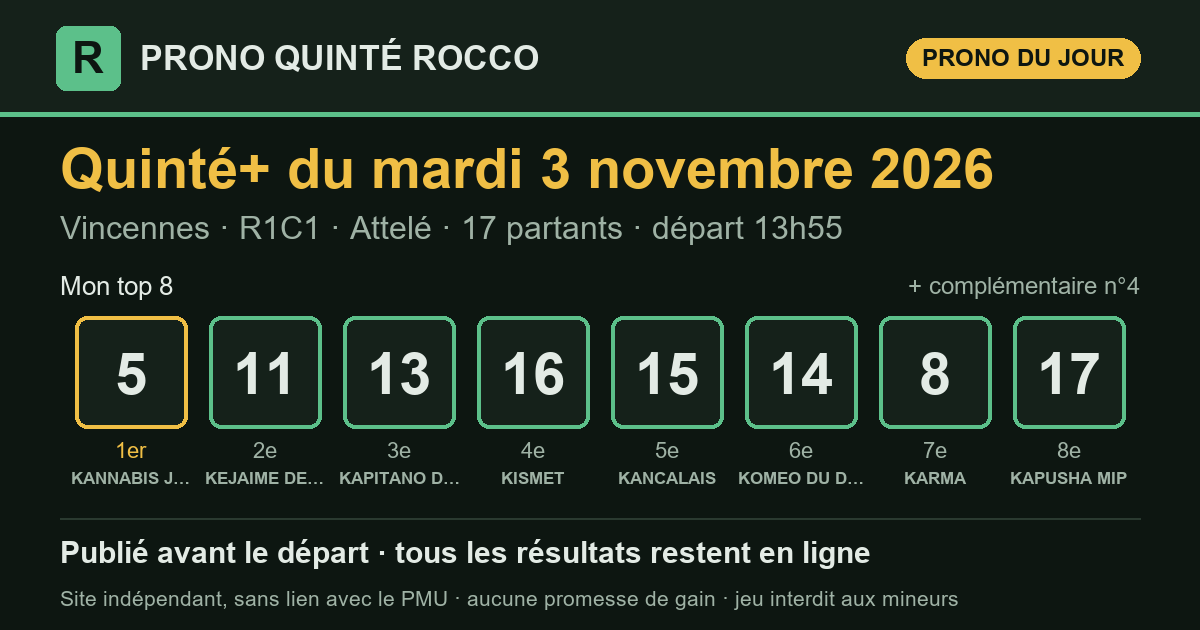
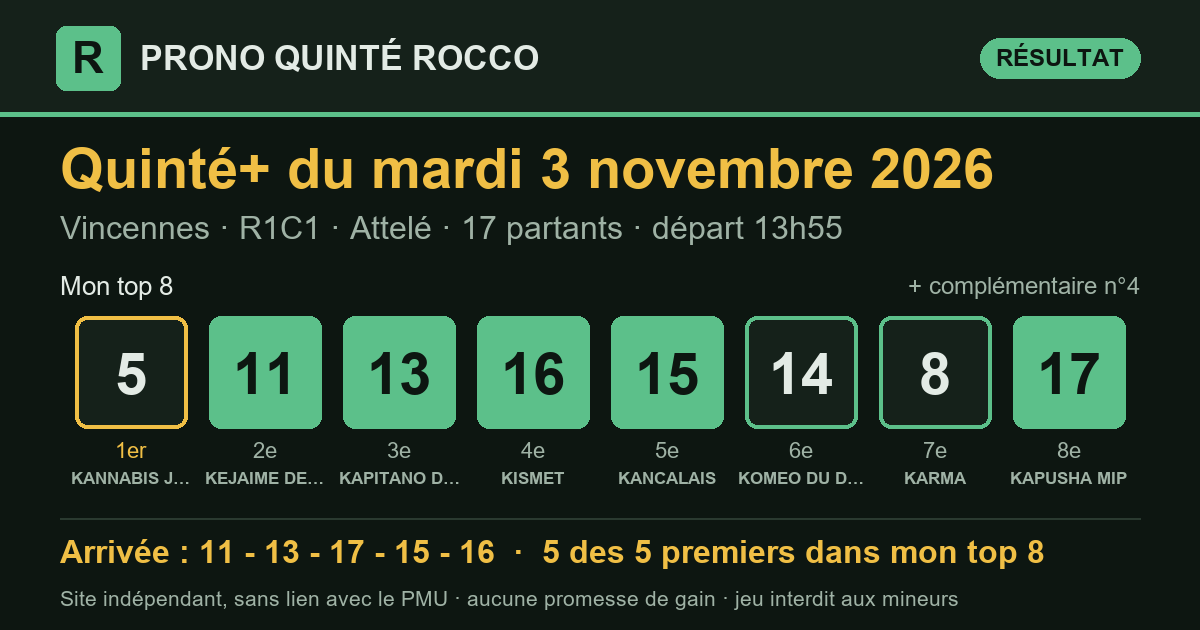
Prono Quinté+ 2026-11-03 Vincennes R1C1 — publié le 03/11/2026 14:11 (heure de Paris)

diff --git a/partants.html b/partants.html
@@ -3,7 +3,7 @@
 <head>
 <meta charset="utf-8">
 <meta name="viewport" content="width=device-width, initial-scale=1, viewport-fit=cover">
-<title>Partants du Quinté+ du mardi 3 novembre 2026 — Prono Quinté Rocco</title>
+<title>Partants du Quinté+ du mercredi 4 novembre 2026 — Prono Quinté Rocco</title>
 <meta name="description" content="Les partants du prochain Quinté+ (programme officiel du PMU), avec le rang de chaque cheval dans mon prono et les liens vers les pronostics de la presse.">
 <link rel="canonical" href="https://prono-quinte-rocco.fr/partants.html">
 <link rel="stylesheet" href="style.css?v=88a1c822">
@@ -13,7 +13,7 @@
 <meta property="og:site_name" content="Prono Quinté Rocco">
 <meta property="og:locale" content="fr_FR">
 <meta property="og:type" content="website">
-<meta property="og:title" content="Partants du Quinté+ du mardi 3 novembre 2026 — Prono Quinté Rocco">
+<meta property="og:title" content="Partants du Quinté+ du mercredi 4 novembre 2026 — Prono Quinté Rocco">
 <meta property="og:description" content="Les partants du prochain Quinté+ (programme officiel du PMU), avec le rang de chaque cheval dans mon prono et les liens vers les pronostics de la presse.">
 <meta property="og:url" content="https://prono-quinte-rocco.fr/partants.html">
 <meta name="twitter:card" content="summary">
@@ -29,105 +29,85 @@
   <p class="surtitre">Programme officiel du PMU</p>
   <h1>Les partants du prochain Quinté+</h1>
   <div class="fiche-course">
-    <p class="fiche-date">Mardi 3 novembre 2026</p>
-    <div class="fiche-rc"><span class="pastille" title="Réunion 1">R1</span><span class="pastille" title="Course 1">C1</span><span class="fiche-nom">Prix de Vienne</span></div>
-    <p class="meta">Vincennes · Trot_attele · 2 850 m · 17 partants</p>
+    <p class="fiche-date">Mercredi 4 novembre 2026</p>
+    <div class="fiche-rc"><span class="pastille" title="Réunion 1">R1</span><span class="pastille" title="Course 2">C2</span><span class="fiche-nom">Grand National du Trot</span></div>
+    <p class="meta">Nantes · Trot_attele · 3 000 m · 12 partants</p>
     <p class="fiche-depart">Départ <b>13:55</b> <span>heure de Paris</span></p>
   </div>
   <p class="surtitre">Les pronostics ailleurs sur le web</p>
-  <div class="liens"><a class="lien-ext" href="https://www.turfoo.fr/programmes-courses/261103/reunion1-vincennes/course1-prix-de-vienne/pronostics-presse/" rel="noopener" target="_blank"><b>Les pronostics de la presse →</b><span>sur Turfoo (site extérieur)</span></a><a class="lien-ext" href="https://www.geny.com/programme/2026-11-03" rel="noopener" target="_blank"><b>Partants et pronostics →</b><span>programme du jour sur Geny (site extérieur)</span></a></div>
+  <div class="liens"><a class="lien-ext" href="https://www.turfoo.fr/programmes-courses/261104/reunion1-nantes/course2-grand-national-du-trot/pronostics-presse/" rel="noopener" target="_blank"><b>Les pronostics de la presse →</b><span>sur Turfoo (site extérieur)</span></a><a class="lien-ext" href="https://www.geny.com/programme/2026-11-04" rel="noopener" target="_blank"><b>Partants et pronostics →</b><span>programme du jour sur Geny (site extérieur)</span></a></div>
   <div class="liste-boite"><table class="liste-partants">
     <thead><tr><th>N°</th><th>Cheval</th><th class="cote"><span class="long">Cote du matin</span><span class="court">Cote</span></th>
     <th class="ia"><span class="long">Mon prono</span><span class="court">Prono</span></th></tr></thead>
     <tbody><tr>
   <td><span class="tapis petit">1</span></td>
-  <td><span class="cheval">KOCKTAIL WOOD</span><span class="sous">N. BAZIRE · B. BOURGOIN</span></td>
-  <td class="cote num">61,0</td>
+  <td><span class="cheval">JERENAL D&#x27;HAMELINE</span><span class="sous">A. WIELS · J.P. MARMION</span></td>
+  <td class="cote num">—</td>
   <td class="ia">—</td>
 </tr><tr>
   <td><span class="tapis petit">2</span></td>
-  <td><span class="cheval">KYNTE FLUSH</span><span class="sous">A. ABRIVARD · L.CL. ABRIVARD</span></td>
-  <td class="cote num">24,0</td>
+  <td><span class="cheval">IDOLE DE MEAT</span><span class="sous">F. GUINHUT · F. GUINHUT</span></td>
+  <td class="cote num">—</td>
   <td class="ia">—</td>
 </tr><tr>
   <td><span class="tapis petit">3</span></td>
-  <td><span class="cheval">KING GEORGES</span><span class="sous">D. BONNE · D. BONNE</span></td>
-  <td class="cote num">61,0</td>
+  <td><span class="cheval">HAPPY FACE</span><span class="sous">M. ABRIVARD · CH.A. MARY</span></td>
+  <td class="cote num">—</td>
   <td class="ia">—</td>
 </tr><tr>
   <td><span class="tapis petit">4</span></td>
-  <td><span class="cheval">KANSAS QUESNOT</span><span class="sous">P.Y. VERVA · P.Y. VERVA</span></td>
-  <td class="cote num">44,0</td>
-  <td class="ia"><span class="etat place">compl.</span></td>
+  <td><span class="cheval">HAPPY DANOVER</span><span class="sous">J. TRAVERS · St. PROVOOST</span></td>
+  <td class="cote num">—</td>
+  <td class="ia">—</td>
 </tr><tr>
   <td><span class="tapis petit">5</span></td>
-  <td><span class="cheval">KANNABIS JELOCA</span><span class="sous">M. GOETZ · V. RENAULT</span></td>
-  <td class="cote num">10,0</td>
-  <td class="ia"><span class="etat place">1<sup>er</sup></span></td>
+  <td><span class="cheval">JANE AIMEE</span><span class="sous">J.PH. MONCLIN · Sté. Ent. Christophe CLIN</span></td>
+  <td class="cote num">—</td>
+  <td class="ia">—</td>
 </tr><tr>
   <td><span class="tapis petit">6</span></td>
-  <td><span class="cheval">KHARNAS</span><span class="sous">A. ANDRE · Sté. Ent. Grégory THOREL</span></td>
-  <td class="cote num">62,0</td>
+  <td><span class="cheval">JENTIL DIESCHOOT</span><span class="sous">A. COLLETTE · K. LEBLANC</span></td>
+  <td class="cote num">—</td>
   <td class="ia">—</td>
 </tr><tr>
   <td><span class="tapis petit">7</span></td>
-  <td><span class="cheval">KOSY D&#x27;ERONVILLE</span><span class="sous">D. THOMAIN · ST. MEUNIER</span></td>
-  <td class="cote num">24,0</td>
+  <td><span class="cheval">KARNAC WOOD</span><span class="sous">H. MONTHULE · S. GUARATO</span></td>
+  <td class="cote num">—</td>
   <td class="ia">—</td>
 </tr><tr>
   <td><span class="tapis petit">8</span></td>
-  <td><span class="cheval">KARMA</span><span class="sous">R. LAMY · P. LEVESQUE</span></td>
-  <td class="cote num">9,0</td>
-  <td class="ia"><span class="etat place">7<sup>e</sup></span></td>
+  <td><span class="cheval">KELLE BEAUTE</span><span class="sous">A. ABRIVARD · L.CL. ABRIVARD</span></td>
+  <td class="cote num">—</td>
+  <td class="ia">—</td>
 </tr><tr>
   <td><span class="tapis petit">9</span></td>
-  <td><span class="cheval">KISS ME SIMON</span><span class="sous">F. OUVRIE · P. DESPREZ</span></td>
-  <td class="cote num">61,0</td>
+  <td><span class="cheval">HARMONY LA NUIT</span><span class="sous">E. RAFFIN · S. BOURLIER</span></td>
+  <td class="cote num">—</td>
   <td class="ia">—</td>
 </tr><tr>
   <td><span class="tapis petit">10</span></td>
-  <td><span class="cheval">KAZY MERITE</span><span class="sous">A. BARRIER · A. BUISSON</span></td>
-  <td class="cote num">33,0</td>
+  <td><span class="cheval">JE REVE DU BOIS</span><span class="sous">A. BARRIER · CH.M. BRUNEAU</span></td>
+  <td class="cote num">—</td>
   <td class="ia">—</td>
 </tr><tr>
   <td><span class="tapis petit">11</span></td>
-  <td><span class="cheval">KEJAIME DE HOUELLE</span><span class="sous">A. COLLETTE · K. LEBLANC</span></td>
-  <td class="cote num">5,6</td>
-  <td class="ia"><span class="etat place">2<sup>e</sup></span></td>
-</tr><tr>
-  <td><span class="tapis petit">12</span></td>
-  <td><span class="cheval">KAISER DES GRANGES</span><span class="sous">G. GELORMINI · Ch. NICOLE</span></td>
-  <td class="cote num">23,0</td>
+  <td><span class="cheval">HORATIUS D&#x27;ELA</span><span class="sous">B. ROCHARD · M. SASSIER</span></td>
+  <td class="cote num">—</td>
   <td class="ia">—</td>
 </tr><tr>
+  <td><span class="tapis petit">12</span></td>
+  <td><span class="cheval">IBISCUS MAN</span><span class="sous">M. MOTTIER · R.CH. LARUE</span></td>
+  <td class="cote num">—</td>
+  <td class="ia">—</td>
+</tr><tr class="np">
   <td><span class="tapis petit">13</span></td>
-  <td><span class="cheval">KAPITANO DE LOU</span><span class="sous">P.PH. PLOQUIN · A. DUPERCHE</span></td>
-  <td class="cote num">8,4</td>
-  <td class="ia"><span class="etat place">3<sup>e</sup></span></td>
-</tr><tr>
-  <td><span class="tapis petit">14</span></td>
-  <td><span class="cheval">KOMEO DU DOME</span><span class="sous">PH. DAUGEARD · PH. DAUGEARD</span></td>
-  <td class="cote num">9,0</td>
-  <td class="ia"><span class="etat place">6<sup>e</sup></span></td>
-</tr><tr>
-  <td><span class="tapis petit">15</span></td>
-  <td><span class="cheval">KANCALAIS</span><span class="sous">B. ROCHARD · CH.A. MARY</span></td>
-  <td class="cote num">8,8</td>
-  <td class="ia"><span class="etat place">5<sup>e</sup></span></td>
-</tr><tr>
-  <td><span class="tapis petit">16</span></td>
-  <td><span class="cheval">KISMET</span><span class="sous">M. ABRIVARD · M. ABRIVARD</span></td>
-  <td class="cote num">8,2</td>
-  <td class="ia"><span class="etat place">4<sup>e</sup></span></td>
-</tr><tr>
-  <td><span class="tapis petit">17</span></td>
-  <td><span class="cheval">KAPUSHA MIP</span><span class="sous">E. RAFFIN · S. GUARATO</span></td>
-  <td class="cote num">13,0</td>
-  <td class="ia"><span class="etat place">8<sup>e</sup></span></td>
+  <td><span class="cheval">JINGLE DU PONT</span><span class="sous">R. CONGARD · N. BAZIRE</span></td>
+  <td class="cote num">NP</td>
+  <td class="ia">—</td>
 </tr></tbody>
   </table></div>
-  <p class="meta">La colonne « Mon prono » donne le rang de chaque cheval dans mon top 8, tel qu&#x27;il est publié sur ce site. Sous chaque cheval : driver · entraîneur. Partants et cotes : programme
-  officiel du PMU, lu le 03/11 à 09:16 (heure de Paris). NP = non-partant.</p>
+  <p class="meta">Mon prono de cette course sera publié le matin de la course, avant le départ. Sous chaque cheval : driver · entraîneur. Partants et cotes : programme
+  officiel du PMU, lu le 03/11 à 14:11 (heure de Paris). NP = non-partant.</p>
 </section>
 </main>
 <footer class="pied">

diff --git a/index.html b/index.html
@@ -16,7 +16,7 @@
 <meta property="og:title" content="Pronostic Quinté+ du mardi 3 novembre 2026 — Prono Quinté Rocco">
 <meta property="og:description" content="Pronostic Quinté+ du jour : mon top 8, publié avant le départ, puis tous les résultats et le rendement réel.">
 <meta property="og:url" content="https://prono-quinte-rocco.fr/">
-<meta property="og:image" content="https://prono-quinte-rocco.fr/partage/2026-11-03.png?v=45e7c30c">
+<meta property="og:image" content="https://prono-quinte-rocco.fr/partage/2026-11-03.png?v=94d93e24">
 <meta property="og:image:type" content="image/png">
 <meta property="og:image:width" content="1200">
 <meta property="og:image:height" content="630">
@@ -31,7 +31,7 @@
 </header>
 <main>
 <section class="une" aria-labelledby="t-jour">
-  <p class="surtitre">Quinté+ du jour</p>
+  <p class="surtitre">Dernier Quinté+</p>
   <h1 id="t-jour">Le prono du Quinté+, résultats compris</h1>
   <p class="chapo">Chaque matin, j'étudie les partants du Quinté+ avec le logiciel que
   j'ai conçu, selon ma propre méthode, qu'une intelligence artificielle m'aide à
@@ -42,10 +42,13 @@
   <p class="meta">Vincennes · <strong>R1C1</strong> · Attelé · 17 partants · lisibilité <span class="note" aria-label="note 3 sur 5"><i class="on"></i><i class="on"></i><i class="on"></i><i class=""></i><i class=""></i></span> 3/5</p>
   <div class="zone-prono">
     <h3 class="zone-titre">Mon top 8</h3>
-    <ol class="partants" aria-label="Mon top 8"><li><span class="rang">1<sup>er</sup></span><span class="tapis ">5</span><span class="nom">KANNABIS JELOCA</span></li><li><span class="rang">2<sup>e</sup></span><span class="tapis ">11</span><span class="nom">KEJAIME DE HOUELLE</span></li><li><span class="rang">3<sup>e</sup></span><span class="tapis ">13</span><span class="nom">KAPITANO DE LOU</span></li><li><span class="rang">4<sup>e</sup></span><span class="tapis ">16</span><span class="nom">KISMET</span></li><li><span class="rang">5<sup>e</sup></span><span class="tapis ">15</span><span class="nom">KANCALAIS</span></li><li><span class="rang">6<sup>e</sup></span><span class="tapis ">14</span><span class="nom">KOMEO DU DOME</span></li><li><span class="rang">7<sup>e</sup></span><span class="tapis ">8</span><span class="nom">KARMA</span></li><li><span class="rang">8<sup>e</sup></span><span class="tapis ">17</span><span class="nom">KAPUSHA MIP</span></li><li><span class="rang">compl.</span><span class="tapis creux">4</span><span class="nom">KANSAS QUESNOT</span></li></ol>
+    <ol class="partants" aria-label="Mon top 8"><li><span class="rang">1<sup>er</sup></span><span class="tapis ">5</span><span class="nom">KANNABIS JELOCA</span></li><li><span class="rang">2<sup>e</sup></span><span class="tapis plein">11</span><span class="nom">KEJAIME DE HOUELLE</span></li><li><span class="rang">3<sup>e</sup></span><span class="tapis plein">13</span><span class="nom">KAPITANO DE LOU</span></li><li><span class="rang">4<sup>e</sup></span><span class="tapis plein">16</span><span class="nom">KISMET</span></li><li><span class="rang">5<sup>e</sup></span><span class="tapis plein">15</span><span class="nom">KANCALAIS</span></li><li><span class="rang">6<sup>e</sup></span><span class="tapis ">14</span><span class="nom">KOMEO DU DOME</span></li><li><span class="rang">7<sup>e</sup></span><span class="tapis ">8</span><span class="nom">KARMA</span></li><li><span class="rang">8<sup>e</sup></span><span class="tapis plein">17</span><span class="nom">KAPUSHA MIP</span></li><li><span class="rang">compl.</span><span class="tapis creux">4</span><span class="nom">KANSAS QUESNOT</span></li></ol>
     <div class="pied-carte"><span>Analysé le 03/11 à 09:05 · en ligne le 03/11 à 09:16 · départ à 13:55 (heure de Paris)</span><span><a href="quinte/2026-11-03.html">Détail de la course</a></span></div>
   </div>
-  <div class="zone-arrivee attente"><p>L'arrivée officielle s'affichera ici après la course.</p></div>
+  <div class="zone-arrivee">
+    <div class="zone-tete"><h3 class="zone-titre">Arrivée officielle</h3><span class="etat place">5 des 5 premiers dans mon top 8</span><span class="etat non">mon 1er (n°5) : non placé</span></div>
+    <ol class="partants" aria-label="Arrivée officielle"><li><span class="rang">1<sup>er</sup></span><span class="tapis plein">11</span><span class="nom">KEJAIME DE HOUELLE</span></li><li><span class="rang">2<sup>e</sup></span><span class="tapis plein">13</span><span class="nom">KAPITANO DE LOU</span></li><li><span class="rang">3<sup>e</sup></span><span class="tapis plein">17</span><span class="nom">KAPUSHA MIP</span></li><li><span class="rang">4<sup>e</sup></span><span class="tapis plein">15</span><span class="nom">KANCALAIS</span></li><li><span class="rang">5<sup>e</sup></span><span class="tapis plein">16</span><span class="nom">KISMET</span></li></ol>
+  </div>
 </article>
 </section>
 <section class="suivre" aria-label="Suivre et soutenir">
@@ -75,7 +78,7 @@
 </section>
 <section class="bilan" aria-labelledby="t-bilan">
   <h2 id="t-bilan">Mon bilan depuis le 8 septembre 2026</h2>
-  <div class="tableau chiffres"><div class="case"><span class="gros ">72 %</span><span class="lib">des arrivants trouvés dans mon top 8</span><span class="ref">un top 8 tiré au hasard : 51 %</span></div><div class="case"><span class="gros ">87 %</span><span class="lib">des gagnants présents dans mon top 8</span><span class="ref"></span></div><div class="case"><span class="gros ">47 %</span><span class="lib">mon 1er placé</span><span class="ref">sur 55 Quintés</span></div><div class="case"><span class="gros perte">0,88 €</span><span class="lib">rendus pour 1 € joué placé sur mon 1er</span><span class="ref">rapports officiels PMU</span></div><div class="case"><span class="gros perte">0,44 €</span><span class="lib">rendus pour 1 € joué en Quinté+ combiné sur mon top 8</span><span class="ref">56 combinaisons, rapports PMU.fr, sur 55 Quintés</span></div></div>
+  <div class="tableau chiffres"><div class="case"><span class="gros ">73 %</span><span class="lib">des arrivants trouvés dans mon top 8</span><span class="ref">un top 8 tiré au hasard : 51 %</span></div><div class="case"><span class="gros ">88 %</span><span class="lib">des gagnants présents dans mon top 8</span><span class="ref"></span></div><div class="case"><span class="gros ">47 %</span><span class="lib">mon 1er placé</span><span class="ref">sur 55 Quintés</span></div><div class="case"><span class="gros perte">0,88 €</span><span class="lib">rendus pour 1 € joué placé sur mon 1er</span><span class="ref">rapports officiels PMU</span></div><div class="case"><span class="gros perte">0,46 €</span><span class="lib">rendus pour 1 € joué en Quinté+ combiné sur mon top 8</span><span class="ref">56 combinaisons, rapports PMU.fr, sur 56 Quintés</span></div></div>
   <p class="avertissement">Moins de 1 € rendu pour 1 € joué : suivre mon prono à la lettre fait <strong>perdre de l'argent</strong> sur cette période. Il sert à analyser une course, pas à promettre un gain.</p>
 </section>
 </main>

diff --git a/quinte/2026-11-03.html b/quinte/2026-11-03.html
@@ -16,7 +16,7 @@
 <meta property="og:title" content="Pronostic Quinté+ du mardi 3 novembre 2026 à Vincennes — Prono Quinté Rocco">
 <meta property="og:description" content="Prono Quinté+ du mardi 3 novembre 2026 (Vincennes) : mon top 8, l&#x27;arrivée officielle et les rapports PMU.fr.">
 <meta property="og:url" content="https://prono-quinte-rocco.fr/quinte/2026-11-03.html">
-<meta property="og:image" content="https://prono-quinte-rocco.fr/partage/2026-11-03.png?v=45e7c30c">
+<meta property="og:image" content="https://prono-quinte-rocco.fr/partage/2026-11-03.png?v=94d93e24">
 <meta property="og:image:type" content="image/png">
 <meta property="og:image:width" content="1200">
 <meta property="og:image:height" content="630">
@@ -35,15 +35,25 @@
   <h1>Pronostic Quinté+ du mardi 3 novembre 2026</h1>
   <p class="chapo">Vincennes · R1C1 · Attelé · 17 partants</p>
   <article class="carte-course">
-  <div class="tete"><h2>Mon prono</h2></div>
+  <div class="tete"><h2>Mon prono et l&#x27;arrivée officielle</h2></div>
   <p class="meta">Vincennes · <strong>R1C1</strong> · Attelé · 17 partants · lisibilité <span class="note" aria-label="note 3 sur 5"><i class="on"></i><i class="on"></i><i class="on"></i><i class=""></i><i class=""></i></span> 3/5</p>
   <div class="zone-prono">
     <h3 class="zone-titre">Mon top 8</h3>
-    <ol class="partants" aria-label="Mon top 8"><li><span class="rang">1<sup>er</sup></span><span class="tapis ">5</span><span class="nom">KANNABIS JELOCA</span></li><li><span class="rang">2<sup>e</sup></span><span class="tapis ">11</span><span class="nom">KEJAIME DE HOUELLE</span></li><li><span class="rang">3<sup>e</sup></span><span class="tapis ">13</span><span class="nom">KAPITANO DE LOU</span></li><li><span class="rang">4<sup>e</sup></span><span class="tapis ">16</span><span class="nom">KISMET</span></li><li><span class="rang">5<sup>e</sup></span><span class="tapis ">15</span><span class="nom">KANCALAIS</span></li><li><span class="rang">6<sup>e</sup></span><span class="tapis ">14</span><span class="nom">KOMEO DU DOME</span></li><li><span class="rang">7<sup>e</sup></span><span class="tapis ">8</span><span class="nom">KARMA</span></li><li><span class="rang">8<sup>e</sup></span><span class="tapis ">17</span><span class="nom">KAPUSHA MIP</span></li><li><span class="rang">compl.</span><span class="tapis creux">4</span><span class="nom">KANSAS QUESNOT</span></li></ol>
+    <ol class="partants" aria-label="Mon top 8"><li><span class="rang">1<sup>er</sup></span><span class="tapis ">5</span><span class="nom">KANNABIS JELOCA</span></li><li><span class="rang">2<sup>e</sup></span><span class="tapis plein">11</span><span class="nom">KEJAIME DE HOUELLE</span></li><li><span class="rang">3<sup>e</sup></span><span class="tapis plein">13</span><span class="nom">KAPITANO DE LOU</span></li><li><span class="rang">4<sup>e</sup></span><span class="tapis plein">16</span><span class="nom">KISMET</span></li><li><span class="rang">5<sup>e</sup></span><span class="tapis plein">15</span><span class="nom">KANCALAIS</span></li><li><span class="rang">6<sup>e</sup></span><span class="tapis ">14</span><span class="nom">KOMEO DU DOME</span></li><li><span class="rang">7<sup>e</sup></span><span class="tapis ">8</span><span class="nom">KARMA</span></li><li><span class="rang">8<sup>e</sup></span><span class="tapis plein">17</span><span class="nom">KAPUSHA MIP</span></li><li><span class="rang">compl.</span><span class="tapis creux">4</span><span class="nom">KANSAS QUESNOT</span></li></ol>
     <div class="pied-carte"><span>Analysé le 03/11 à 09:05 · en ligne le 03/11 à 09:16 · départ à 13:55 (heure de Paris)</span><span></span></div>
   </div>
-  <div class="zone-arrivee attente"><p>L'arrivée officielle s'affichera ici après la course.</p></div>
+  <div class="zone-arrivee">
+    <div class="zone-tete"><h3 class="zone-titre">Arrivée officielle</h3><span class="etat place">5 des 5 premiers dans mon top 8</span><span class="etat non">mon 1er (n°5) : non placé</span></div>
+    <ol class="partants" aria-label="Arrivée officielle"><li><span class="rang">1<sup>er</sup></span><span class="tapis plein">11</span><span class="nom">KEJAIME DE HOUELLE</span></li><li><span class="rang">2<sup>e</sup></span><span class="tapis plein">13</span><span class="nom">KAPITANO DE LOU</span></li><li><span class="rang">3<sup>e</sup></span><span class="tapis plein">17</span><span class="nom">KAPUSHA MIP</span></li><li><span class="rang">4<sup>e</sup></span><span class="tapis plein">15</span><span class="nom">KANCALAIS</span></li><li><span class="rang">5<sup>e</sup></span><span class="tapis plein">16</span><span class="nom">KISMET</span></li></ol>
+  </div>
 </article>
+<section class="carte-course rapports" aria-labelledby="t-rap">
+  <div class="tete"><h2 id="t-rap">Les rapports</h2></div>
+  <div class="deux">
+    <div><h3>Ce qu'aurait rendu mon prono</h3><dl class="kv"><dt>1 € placé sur mon 1er (n°5)</dt><dd>rapport manquant</dd><dt>1 € gagnant sur mon 1er</dt><dd>rapport manquant</dd><dt>Quinté+ combiné sur mon top 8 (mise 112 €)</dt><dd>147,20 €</dd><dt>dont</dt><dd>Désordre × 1, Bonus 4sur5 × 15, Bonus 3 × 3</dd></dl></div>
+    <div><h3>Rapports officiels</h3><dl class="kv"><dt>e-Quinté+ Ordre (2 €)</dt><dd>5 223,20 €</dd><dt>e-Quinté+ Désordre (2 €)</dt><dd>59,60 €</dd><dt>e-Bonus 4sur5 (2 €)</dt><dd>5,00 €</dd><dt>e-Bonus 3 (2 €)</dt><dd>4,20 €</dd></dl></div>
+  </div>
+</section>
 </section>
 </main>
 <footer class="pied">

diff --git a/resultats.html b/resultats.html
@@ -40,11 +40,11 @@
     <th colspan="4" class="res g-res">Le résultat officiel</th></tr>
     <tr><th>Date</th><th>Course</th><th>Top 8</th><th class="res c-arr">Arrivée</th>
     <th class="res">Trouvés</th><th class="res">Mon 1er</th><th class="res mont">Quinté+ top 8<br>(mise 112 €)</th></tr></thead>
-    <tbody><tr class="attente">
+    <tbody><tr>
   <td class="c-date"><a href="quinte/2026-11-03.html">03/11</a></td>
   <td class="c-course">Vincennes<br><span class="meta">R1C1 · Attelé</span></td>
-  <td class="c-top8" data-label="Mon top 8"><div class="rangee"><span class="tapis petit">5</span><span class="tapis petit">11</span><span class="tapis petit">13</span><span class="tapis petit">16</span><span class="tapis petit">15</span><span class="tapis petit">14</span><span class="tapis petit">8</span><span class="tapis petit">17</span></div></td>
-  <td class="res c-arr" data-label="Arrivée"><span class="etat attente">en attente</span></td><td class="res num c-trouves" data-label="Trouvés">—</td><td class="res c-premier" data-label="Mon 1er"><span class="etat attente">—</span></td><td class="res mont c-mont" data-label="Quinté+ top 8 (mise 112 €)">—</td>
+  <td class="c-top8" data-label="Mon top 8"><div class="rangee"><span class="tapis petit">5</span><span class="tapis plein petit">11</span><span class="tapis plein petit">13</span><span class="tapis plein petit">16</span><span class="tapis plein petit">15</span><span class="tapis petit">14</span><span class="tapis petit">8</span><span class="tapis plein petit">17</span></div></td>
+  <td class="res c-arr" data-label="Arrivée"><div class="rangee"><span class="tapis plein petit" title="1er">11</span><span class="tapis plein petit" title="2e">13</span><span class="tapis plein petit" title="3e">17</span><span class="tapis plein petit" title="4e">15</span><span class="tapis plein petit" title="5e">16</span></div></td><td class="res num c-trouves" data-label="Trouvés">5/5</td><td class="res c-premier" data-label="Mon 1er"><span class="etat non">non placé</span></td><td class="res mont c-mont " data-label="Quinté+ top 8 (mise 112 €)">147,20 €</td>
 </tr><tr>
   <td class="c-date"><a href="quinte/2026-11-02.html">02/11</a></td>
   <td class="c-course">Fontainebleau<br><span class="meta">R1C3 · Plat</span></td>
@@ -325,7 +325,7 @@
 </section>
 <section class="bilan" aria-labelledby="t-bilan">
   <h2 id="t-bilan">Mon bilan depuis le 8 septembre 2026</h2>
-  <div class="tableau chiffres"><div class="case"><span class="gros ">72 %</span><span class="lib">des arrivants trouvés dans mon top 8</span><span class="ref">un top 8 tiré au hasard : 51 %</span></div><div class="case"><span class="gros ">87 %</span><span class="lib">des gagnants présents dans mon top 8</span><span class="ref"></span></div><div class="case"><span class="gros ">47 %</span><span class="lib">mon 1er placé</span><span class="ref">sur 55 Quintés</span></div><div class="case"><span class="gros perte">0,88 €</span><span class="lib">rendus pour 1 € joué placé sur mon 1er</span><span class="ref">rapports officiels PMU</span></div><div class="case"><span class="gros perte">0,44 €</span><span class="lib">rendus pour 1 € joué en Quinté+ combiné sur mon top 8</span><span class="ref">56 combinaisons, rapports PMU.fr, sur 55 Quintés</span></div></div>
+  <div class="tableau chiffres"><div class="case"><span class="gros ">73 %</span><span class="lib">des arrivants trouvés dans mon top 8</span><span class="ref">un top 8 tiré au hasard : 51 %</span></div><div class="case"><span class="gros ">88 %</span><span class="lib">des gagnants présents dans mon top 8</span><span class="ref"></span></div><div class="case"><span class="gros ">47 %</span><span class="lib">mon 1er placé</span><span class="ref">sur 55 Quintés</span></div><div class="case"><span class="gros perte">0,88 €</span><span class="lib">rendus pour 1 € joué placé sur mon 1er</span><span class="ref">rapports officiels PMU</span></div><div class="case"><span class="gros perte">0,46 €</span><span class="lib">rendus pour 1 € joué en Quinté+ combiné sur mon top 8</span><span class="ref">56 combinaisons, rapports PMU.fr, sur 56 Quintés</span></div></div>
   <p class="avertissement">Moins de 1 € rendu pour 1 € joué : suivre mon prono à la lettre fait <strong>perdre de l'argent</strong> sur cette période. Il sert à analyser une course, pas à promettre un gain.</p>
 </section>
 </main>
